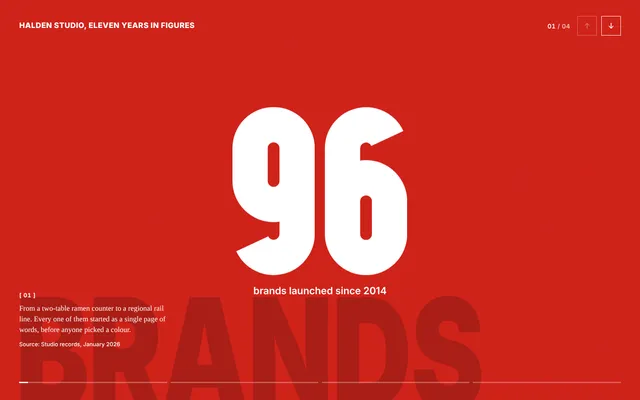
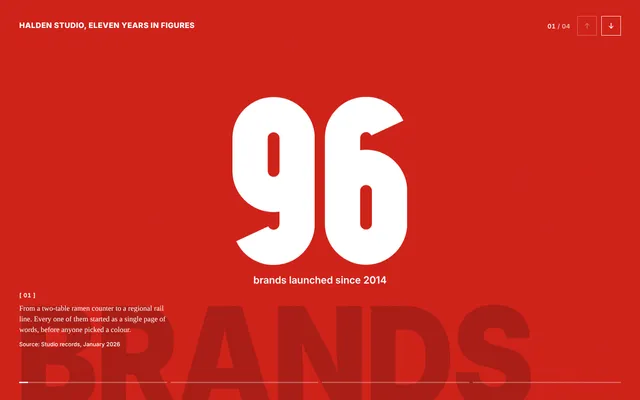
odometer-stage-stats: round 3 fixes: pinned baseline, wheel roll with edge fade, separated ghost words, wrapping click mode
Claude-Session: https://claude.ai/code/session_01FifnhnqjeUL25K9YFfi7E3

diff --git a/components/odometer-stage-stats/odometer-stage-stats.tsx b/components/odometer-stage-stats/odometer-stage-stats.tsx
@@ -247,7 +247,8 @@ export function pad2(n: number): string {
 }
 
 /**
- * The digits a cell spins through before it lands on its own. Digits pass
+ * The digits a cell spins through before it lands on its own: the two or
+ * three before it, in order, like a counter wheel. Digits pass
  * two or three neighbours (longer for cells further right, so the figure
  * settles left to right); anything else just slides in.
  */
@@ -256,7 +257,7 @@ export function rollStrip(target: string, position: number): string[] {
   const t = Number(target)
   const spins = 2 + (position % 2)
   const out: string[] = []
-  for (let k = spins; k >= 1; k--) out.push(String((t + k * 3) % 10))
+  for (let k = spins; k >= 1; k--) out.push(String((t - k + 10) % 10))
   out.push(target)
   return out
 }
@@ -299,14 +300,13 @@ function GlyphSvg({ ch }: { ch: string }) {
 
 type Phase = "from" | "to" | "out"
 
-const PITCH = 1.3
+const PITCH = 1.2
 
 function Figure({
   value,
   phase,
   dir,
   order,
-  maxSize,
 }: {
   value: string
   phase: Phase
@@ -314,7 +314,6 @@ function Figure({
   dir: 1 | -1
   /** Which way the figure was stacked when it came in (it keeps that stack on the way out). */
   order: 1 | -1
-  maxSize: string
 }) {
   const chars = parseValue(value)
   const em = figureEm(chars)
@@ -324,7 +323,7 @@ function Figure({
       className="ost-figure"
       data-phase={phase}
       data-dir={dir === 1 ? "up" : "down"}
-      style={{ fontSize: "min(" + maxSize + ", " + fit + ")" }}
+      style={{ fontSize: "min(var(--ost-figmax), " + fit + ")" }}
       aria-hidden="true"
     >
       {chars.map((ch, i) => {
@@ -332,13 +331,17 @@ function Figure({
         const ordered = order === 1 ? strip : strip.slice().reverse()
         const len = ordered.length
         const target = order === 1 ? len - 1 : 0
-        // Slots are PITCH tall (the glyph plus a gap, so a digit that is nearly home never shows
-        // its neighbour's edge). Up: the strip starts one slot below and travels until its last
-        // glyph is in the cell. Down: it starts above and travels until its first glyph is.
-        const start = order === 1 ? PITCH : -PITCH * len
+        // Symbols (% $ K . …) do not spin: they rise a hair into place while their neighbours
+        // roll, so no cell is ever empty mid-step.
+        const sym = len === 1
+        // Digits sit PITCH apart like numbers on a wheel; the 0.2em gap is just wider than the
+        // cells' 0.16em edge fade, so a landed digit's neighbours are fully out of sight. Up: the strip starts one slot below and
+        // travels until its last glyph is in the cell. Down: it starts above and travels until
+        // its first glyph is.
+        const start = sym ? 0.14 * (order === 1 ? 1 : -1) : order === 1 ? PITCH : -PITCH * len
         const end = -PITCH * target
-        // Leaving, the landed glyph carries on one more slot in the step's direction.
-        const y = phase === "from" ? start : phase === "to" ? end : end + (dir === 1 ? -PITCH : PITCH)
+        // Leaving, the landed glyph carries on part of a slot in the step's direction and fades.
+        const y = phase === "from" ? start : phase === "to" ? end : end + (dir === 1 ? -0.5 : 0.5)
         return (
           <span
             key={i}
@@ -348,10 +351,11 @@ function Figure({
           >
             <span
               className="ost-strip"
+              data-sym={sym ? "" : undefined}
               style={{
                 transform: "translate3d(0," + y + "em,0)",
                 // The new figure waits for the old one to clear its cells, then lands left to right.
-                transitionDelay: (phase === "out" ? i * 20 : 40 + i * 50) + "ms",
+                transitionDelay: (phase === "out" ? i * 10 : 40 + i * 50) + "ms",
               }}
             >
               {ordered.map((g, k) => (
@@ -415,11 +419,11 @@ const css = `
 .ost-stage { position: relative; width: 100%; overflow: hidden; background-color: var(--ost-field-now); color: var(--ost-ink); container-type: size; font-family: var(--ost-ui); transition: background-color 400ms ease; }
 .ost[data-mode="scroll"] .ost-stage { position: sticky; }
 .ost-grain { position: absolute; inset: 0; pointer-events: none; opacity: 0.38; mix-blend-mode: soft-light; background-size: 220px 220px; }
-.ost-word { position: absolute; left: clamp(12px, 2.4cqw, 40px); bottom: 0; margin: 0; font-family: var(--ost-word); font-weight: 900; font-stretch: condensed; text-transform: uppercase; letter-spacing: -0.01em; line-height: 0.74; font-size: min(clamp(88px, 24cqw, 420px), calc((100cqw - 32px) / (var(--ost-chars, 6) * 0.47))); white-space: nowrap; color: rgba(0, 0, 0, 0.16); color: var(--ost-ghost, color-mix(in srgb, var(--ost-field-now) 80%, #000)); transform-origin: 0 100%; transform: translate3d(0, 9%, 0) scaleX(0.72); pointer-events: none; user-select: none; transition: opacity 420ms cubic-bezier(0.23, 1, 0.32, 1), transform 620ms cubic-bezier(0.23, 1, 0.32, 1); }
-.ost-word[data-state="from"] { opacity: 0; transform: translate3d(0, 34%, 0) scaleX(0.72); transition: none; }
-.ost-word[data-state="out"] { opacity: 0; transform: translate3d(0, -18%, 0) scaleX(0.72); transition-duration: 220ms; }
+.ost-word { position: absolute; left: clamp(12px, 2.4cqw, 40px); bottom: 0; margin: 0; font-family: var(--ost-word); font-weight: 900; font-stretch: condensed; text-transform: uppercase; letter-spacing: -0.02em; line-height: 0.74; font-size: min(clamp(88px, 22cqw, 400px), calc((100cqw - 32px) / (var(--ost-chars, 6) * 0.58))); white-space: nowrap; color: rgba(0, 0, 0, 0.16); color: var(--ost-ghost, color-mix(in srgb, var(--ost-field-now) 80%, #000)); transform-origin: 0 100%; transform: translate3d(0, 9%, 0) scaleX(0.88); pointer-events: none; user-select: none; transition: opacity 420ms cubic-bezier(0.23, 1, 0.32, 1) 140ms, transform 620ms cubic-bezier(0.23, 1, 0.32, 1) 140ms; }
+.ost-word[data-state="from"] { opacity: 0; transform: translate3d(0, 34%, 0) scaleX(0.88); transition: none; }
+.ost-word[data-state="out"] { opacity: 0; transform: translate3d(0, -10%, 0) scaleX(0.88); transition: opacity 110ms ease, transform 110ms ease; }
 .ost-top { position: absolute; z-index: 2; top: 0; left: 0; right: 0; display: flex; align-items: center; justify-content: space-between; gap: 16px; padding: clamp(18px, 2.6cqw, 36px) clamp(18px, 3cqw, 48px); }
-.ost-title { margin: 0; font-family: var(--ost-word); font-size: 17px; line-height: 1.15; font-weight: 800; text-transform: uppercase; letter-spacing: 0.03em; max-width: 44ch; }
+.ost-title { margin: 0; font-family: var(--ost-word); font-size: 17px; line-height: 1.15; font-weight: 800; text-transform: uppercase; letter-spacing: 0.03em; max-width: 44ch; text-wrap: balance; }
 .ost-nav { display: flex; align-items: center; gap: 10px; }
 .ost-count { font-size: 14px; font-weight: 600; font-variant-numeric: tabular-nums; letter-spacing: 0.02em; margin-right: 6px; white-space: nowrap; }
 .ost-count span { opacity: 0.7; }
@@ -433,18 +437,20 @@ const css = `
 .ost[data-mode="click"] .ost-btn[data-dir="next"]:hover:not(:disabled) svg { transform: translateX(2px); }
 .ost[data-mode="click"] .ost-btn[data-dir="prev"]:hover:not(:disabled) svg { transform: translateX(-2px); }
 .ost-btn:focus-visible, .ost-seg:focus-visible, .ost-cta:focus-visible { outline: 2px solid var(--ost-ink); outline-offset: 3px; }
-.ost-center { position: absolute; z-index: 1; left: 0; right: 0; top: clamp(64px, 11cqh, 112px); bottom: clamp(56px, 10cqh, 104px); display: flex; flex-direction: column; align-items: center; justify-content: center; text-align: center; padding: 0 clamp(16px, 3cqw, 48px); pointer-events: none; }
+.ost-center { --ost-ctop: clamp(64px, 11cqh, 112px); --ost-cbot: clamp(56px, 10cqh, 104px); --ost-below: 96px; position: absolute; z-index: 1; left: 0; right: 0; top: var(--ost-ctop); bottom: var(--ost-cbot); display: flex; flex-direction: column; align-items: center; justify-content: flex-start; text-align: center; padding: 0 clamp(16px, 3cqw, 48px); pointer-events: none; }
 .ost-center > * { pointer-events: auto; }
-.ost-figwrap { display: grid; justify-items: center; align-items: end; }
+.ost-figwrap { display: grid; justify-items: center; align-items: end; flex: none; height: var(--ost-figmax); margin-top: max(0px, calc((100cqh - var(--ost-ctop) - var(--ost-cbot) - var(--ost-figmax) - var(--ost-below)) / 2)); }
 .ost-figwrap > * { grid-area: 1 / 1; }
 .ost-figure { display: inline-flex; align-items: flex-start; line-height: 1; height: 1em; color: var(--ost-ink); }
-.ost-cell { position: relative; display: block; flex: none; height: 1em; clip-path: inset(0 -0.12em); }
-.ost-cell[data-tail] { clip-path: inset(0 -0.12em -0.2em -0.12em); }
+.ost-cell { position: relative; display: block; flex: none; height: 1em; clip-path: inset(-0.16em -0.12em); -webkit-mask-image: linear-gradient(transparent, #000 0.16em, #000 calc(100% - 0.16em), transparent); mask-image: linear-gradient(transparent, #000 0.16em, #000 calc(100% - 0.16em), transparent); -webkit-mask-size: 100% calc(100% + 0.32em); mask-size: 100% calc(100% + 0.32em); -webkit-mask-position: 0 -0.16em; mask-position: 0 -0.16em; -webkit-mask-repeat: no-repeat; mask-repeat: no-repeat; }
+.ost-cell[data-tail] { clip-path: inset(-0.16em -0.12em -0.24em -0.12em); -webkit-mask-size: 100% calc(100% + 0.4em); mask-size: 100% calc(100% + 0.4em); }
 .ost-strip { display: flex; flex-direction: column; will-change: transform; transition-property: transform; transition-duration: 850ms; transition-timing-function: cubic-bezier(0.22, 1, 0.36, 1); }
 .ost-figure[data-phase="from"] .ost-strip { transition: none; }
-.ost-figure[data-phase="out"] .ost-strip { opacity: 0; transition-property: transform, opacity; transition-duration: 220ms, 160ms; transition-timing-function: cubic-bezier(0.65, 0, 0.35, 1), ease; }
+.ost-strip[data-sym] { transition-property: transform, opacity; transition-duration: 420ms, 300ms; }
+.ost-figure[data-phase="from"] .ost-strip[data-sym] { opacity: 0; }
+.ost-figure[data-phase="out"] .ost-strip { opacity: 0; transition-property: transform, opacity; transition-duration: 120ms, 100ms; transition-timing-function: cubic-bezier(0.65, 0, 0.35, 1), ease; }
 .ost-figure[data-phase="out"] .ost-slot:not([data-target]) { visibility: hidden; }
-.ost-slot { display: flex; justify-content: center; height: 1.3em; }
+.ost-slot { display: flex; justify-content: center; height: 1.2em; }
 .ost-glyph { display: block; flex: none; overflow: hidden; }
 .ost-fallback { display: block; height: 1em; font-size: 1em; line-height: 1; font-weight: 800; font-family: var(--ost-ui); letter-spacing: -0.04em; }
 .ost-label { margin: clamp(10px, 2.2cqh, 26px) 0 0; font-size: clamp(17px, 1.55cqw, 23px); line-height: 1.3; font-weight: 600; letter-spacing: -0.005em; max-width: 30ch; text-wrap: balance; transition: opacity 380ms ease 120ms, transform 500ms cubic-bezier(0.22, 1, 0.36, 1) 120ms, filter 380ms ease 120ms; }
@@ -486,21 +492,21 @@ const narrowCss = `
   .ost-story { width: min(300px, 28cqw); }
 }
 @container (max-width: 760px) {
-  .ost-center { top: 72px; bottom: clamp(118px, 31cqw, 170px); --ost-fitw: 92cqw; --ost-nh: 34cqh; }
+  .ost-center { --ost-ctop: 72px; --ost-cbot: clamp(118px, 31cqw, 170px); --ost-below: 210px; --ost-fitw: 88cqw; --ost-nh: 34cqh; }
   .ost-label { max-width: 30ch; }
   .ost-stories { display: grid; width: 100%; max-width: 46ch; margin-top: clamp(16px, 3cqh, 28px); }
   .ost-stories > .ost-story { grid-area: 1 / 1; position: static; width: auto; font-size: 15.5px; }
   .ost-story[data-state="from"], .ost-story[data-state="out"] { transform: translateY(8px) !important; }
-  .ost-word { bottom: 44px; font-size: min(30cqw, calc((100cqw - 24px) / (var(--ost-chars, 6) * 0.47))); transform: scaleX(0.72); }
-  .ost-word[data-state="from"] { transform: translate3d(0, 24%, 0) scaleX(0.72); }
-  .ost-word[data-state="out"] { transform: translate3d(0, -12%, 0) scaleX(0.72); }
+  .ost-word { bottom: 44px; font-size: min(30cqw, calc((100cqw - 44px) / (var(--ost-chars, 6) * 0.62))); transform: scaleX(0.88); }
+  .ost-word[data-state="from"] { transform: translate3d(0, 24%, 0) scaleX(0.88); }
+  .ost-word[data-state="out"] { transform: translate3d(0, -8%, 0) scaleX(0.88); }
   .ost-title { font-size: 14px; max-width: 24ch; }
   .ost-count { display: none; }
   .ost-btn { width: 40px; height: 40px; }
 }
 @container (max-height: 620px) {
   .ost-stories { display: none; }
-  .ost-center { bottom: clamp(56px, 10cqh, 104px); }
+  .ost-center { --ost-cbot: clamp(56px, 10cqh, 104px); --ost-below: 96px; }
 }
 `
 
@@ -561,10 +567,13 @@ export default function OdometerStageStats({
   React.useEffect(() => {
     // Compare against what is on stage, so a re-run (Strict Mode) never rolls or announces twice.
     if (shownRef.current === index) return
+    const forcedDir = stepDirRef.current
+    stepDirRef.current = 0
     shownRef.current = index
     setView((v) => {
       if (v.cur === index) return v
-      const dir: 1 | -1 = index > v.cur ? 1 : -1
+      const forced = forcedDir
+      const dir: 1 | -1 = forced ? (forced > 0 ? 1 : -1) : index > v.cur ? 1 : -1
       return { cur: index, prev: v.cur, dir, prevDir: v.dir, phase: reduced ? "to" : "from", key: v.key + 1 }
     })
     setAnnounce("Stat " + (index + 1) + " of " + n + ": " + spoken(list[index] || list[0]))
@@ -625,9 +634,14 @@ export default function OdometerStageStats({
     }
   }, [mode, n, stickyTop])
 
+  // Which way the next step should roll when it is not simply "higher index = up" (a wrap).
+  const stepDirRef = React.useRef(0)
+
   const go = React.useCallback(
     (to: number) => {
-      const i = Math.max(0, Math.min(n - 1, to))
+      // Click mode wraps, like its autoplay; scroll mode stops at the ends of the section.
+      const i = mode === "click" ? wrap(to, n) : Math.max(0, Math.min(n - 1, to))
+      if (mode === "click" && i !== to) stepDirRef.current = to > i ? 1 : -1
       if (mode === "scroll") {
         const a = anchorsRef.current[i]
         if (a) {
@@ -649,7 +663,10 @@ export default function OdometerStageStats({
     if (!autoplayOn || !playing || held) return
     const t = window.setTimeout(() => {
       if (document.visibilityState === "hidden") return
-      setIndex((i) => wrap(i + 1, n))
+      setIndex((i) => {
+        if (i === n - 1) stepDirRef.current = 1
+        return wrap(i + 1, n)
+      })
     }, autoplay)
     return () => window.clearTimeout(t)
   }, [autoplayOn, playing, held, autoplay, index, n])
@@ -662,12 +679,12 @@ export default function OdometerStageStats({
     const t = e.target as HTMLElement
     if (t && (t.tagName === "INPUT" || t.tagName === "TEXTAREA")) return
     if (e.key === "ArrowRight" || e.key === "ArrowDown" || e.key === "PageDown") {
-      if (index < n - 1) {
+      if (index < n - 1 || mode === "click") {
         e.preventDefault()
         go(index + 1)
       }
     } else if (e.key === "ArrowLeft" || e.key === "ArrowUp" || e.key === "PageUp") {
-      if (index > 0) {
+      if (index > 0 || mode === "click") {
         e.preventDefault()
         go(index - 1)
       }
@@ -772,7 +789,7 @@ export default function OdometerStageStats({
               className="ost-btn"
               data-dir="prev"
               onClick={() => go(index - 1)}
-              disabled={index <= 0}
+              disabled={mode === "scroll" && index <= 0}
               aria-label="Previous stat"
             >
               <Arrow dir="prev" axis={mode === "scroll" ? "y" : "x"} />
@@ -782,7 +799,7 @@ export default function OdometerStageStats({
               className="ost-btn"
               data-dir="next"
               onClick={() => go(index + 1)}
-              disabled={index >= n - 1}
+              disabled={mode === "scroll" && index >= n - 1}
               aria-label="Next stat"
             >
               <Arrow dir="next" axis={mode === "scroll" ? "y" : "x"} />
@@ -790,12 +807,13 @@ export default function OdometerStageStats({
           </div>
         </div>
 
-        <div className="ost-center">
+        {/* The size cap is declared here, not on the root, so the phone layout's --ost-nh applies to it. */}
+        <div className="ost-center" style={{ ["--ost-figmax" as string]: numberSize } as React.CSSProperties}>
           <div className="ost-figwrap">
             {prev ? (
-              <Figure key={"n" + (view.key - 1)} value={prev.value} phase="out" dir={view.dir} order={view.prevDir} maxSize={numberSize} />
+              <Figure key={"n" + (view.key - 1)} value={prev.value} phase="out" dir={view.dir} order={view.prevDir} />
             ) : null}
-            <Figure key={"n" + view.key} value={cur.value} phase={enter} dir={view.dir} order={view.dir} maxSize={numberSize} />
+            <Figure key={"n" + view.key} value={cur.value} phase={enter} dir={view.dir} order={view.dir} />
           </div>
           <p key={"l" + view.key} className="ost-label" data-state={enter} aria-hidden="true">
             {cur.label}

diff --git a/media/odometer-stage-stats/review.md b/media/odometer-stage-stats/review.md
@@ -82,3 +82,35 @@ Changes made:
   make room.
 - Type voice: the title is set condensed uppercase in the word stack, and the stories in a
   book-serif stack (`storyFont`), echoing the reference's printed captions.
+
+## Round 3 (fresh critic): REDO, final round
+
+Scores: usability 8, idea 8, craft 7, originality 7, install-safety 9 (average 7.8, under the 8
+needed to SHIP). Not a SCRAP: no Banned look, a clear real job, a strong poster frame on every
+stat.
+Findings, most important first: the figure's baseline drifted between stats (the column was
+centred around the label and CTA); mid-roll stills read as shards (0.3em gaps, +3 digit jumps,
+symbol cells blank mid-step, a stray stem from the old figure); the two backdrop words
+cross-faded into each other; the backdrop word was squeezed with `scaleX(.72)`; the title left a
+one-word last line; click-mode Next was disabled on the last stat while autoplay wrapped; dead
+band on phones between the story and the word; the "1" flag outside the phone gutter.
+
+Changes made after round 3 (the brief allows three critic rounds, so these were not re-scored):
+- The figure sits in a fixed box `numberSize` tall at a fixed top, bottom-aligned; the label,
+  CTA and story only grow downward, so the baseline never moves between stats.
+- The roll is a wheel: digits spin through the ones before them in order (t−3, t−2, t−1, t),
+  slots 1.2em apart, and each cell fades passing digits over 0.16em at its top and bottom
+  edges (a mask that sits outside the cell, so a landed glyph is fully opaque and its
+  neighbours are out of sight; asserted in the test). Symbols rise into place while their
+  neighbours spin, so no cell is ever blank. The old figure leaves in 120 ms.
+- Backdrop words no longer cross: the old one is gone in 110 ms and the new one starts at
+  140 ms. Squeeze reduced to `scaleX(.88)` with tighter tracking.
+- `text-wrap: balance` on the title. Click mode's prev / next and arrow keys wrap like its
+  autoplay (and a wrap still rolls in the step's direction).
+- Phones: figure 88cqw wide at most, the stack spaced against the backdrop word, the word
+  fitted inside the gutters.
+
+## Verdict
+
+REDO after three rounds (7.8). The piece stays on GitHub on `claude/review-odometer-stage-stats`
+for the owner to judge.

diff --git a/components/odometer-stage-stats/README.md b/components/odometer-stage-stats/README.md
@@ -16,14 +16,16 @@ an annual-report or impact page.
   stretch of scroll is one stat. The segment bar along the bottom fills with your scroll,
   and clicking a segment (or the arrows, or ↑/↓/←/→/Home/End while focus is in the section)
   scrolls you to that stat. Works inside any scrolling element, not only the window.
-- **`mode="click"`**: a fixed-height band with prev / next, the segment bar, and autoplay
-  that pauses on hover, keyboard focus, a hidden tab and the pause button.
+- **`mode="click"`**: a fixed-height band with prev / next (they wrap, like the autoplay),
+  the segment bar, and autoplay that pauses on hover, keyboard focus, a hidden tab and the
+  pause button.
 - The numerals are drawn as SVG by the component (`0–9 . , % + − × / $ € £ ¥ ₹ K M B`): a
   heavy compressed poster figure with slit counters, the same shape on every OS with no
   web font. `x` becomes `×`, `k`/`m`/`b` become `K`/`M`/`B`. Any other character falls
   back to the UI font. A test samples every stroke so no glyph is clipped at its sides.
 - The figure is as tall as `numberSize` allows and shrinks to fit the width, so `$2.4B`
-  and `1` both fill the stage without clipping.
+  and `1` both fill the stage without clipping. Its baseline is pinned: the label, CTA and
+  story grow downward, so nothing jumps between stats.
 - The backdrop word is a darker shade of the field, compressed and fitted to the stage
   width, so it reads as one condensed word on any font and never stops mid-letter.
 - Frame one is finished: the first stat is fully on stage, never a 0 counting up.
